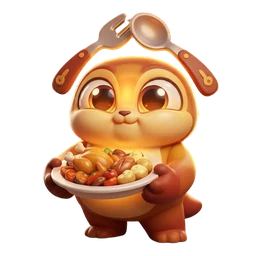
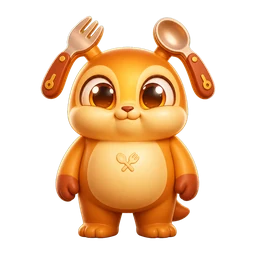
add feastle animation

diff --git a/katchimeras/components/katchadeck/world/creature-animated-art.tsx b/katchimeras/components/katchadeck/world/creature-animated-art.tsx
@@ -8,7 +8,10 @@ import { useEffect, useRef, useState } from 'react';
 import { AppState, type AppStateStatus, type ImageStyle, type StyleProp } from 'react-native';
 import { useReducedMotion } from 'react-native-reanimated';
 
-import { resolveCreatureIdleAnimationSource } from '@/constants/creature-idle-animation-sources';
+import {
+  resolveCreatureIdleAnimationSource,
+  resolveCreatureIdleFallbackSource,
+} from '@/constants/creature-idle-animation-sources';
 import type { HomeVisualKey } from '@/types/home';
 import type { QuestionnaireImageSource } from '@/utils/companion-questionnaire-presentation';
 
@@ -43,8 +46,9 @@ export function CreatureAnimatedArt({
   const [animationFailed, setAnimationFailed] = useState(false);
   const [animationReady, setAnimationReady] = useState(false);
   const animationSource = resolveCreatureIdleAnimationSource(visualKey);
+  const idleFallbackSource = resolveCreatureIdleFallbackSource(visualKey) ?? fallbackSource;
   const shouldAnimate = Boolean(animationSource) && !animationFailed && !reduceMotion && isFocused && appState === 'active';
-  const source = animationSource && !animationFailed && !reduceMotion ? animationSource : fallbackSource;
+  const source = animationSource && !animationFailed && !reduceMotion ? animationSource : idleFallbackSource;
 
   useEffect(() => {
     if (!animationSource) return;
@@ -144,7 +148,7 @@ export function CreatureAnimatedArt({
       onLoadStart={animationSource && source === animationSource ? () => {
         logIdleDiagnostic('info', 'load-start', { source: 'animated', visualKey });
       } : undefined}
-      placeholder={fallbackSource}
+      placeholder={idleFallbackSource}
       placeholderContentFit="contain"
       priority="high"
       ref={imageRef}

diff --git a/katchimeras/constants/creature-idle-animation-sources.ts b/katchimeras/constants/creature-idle-animation-sources.ts
@@ -4,12 +4,25 @@ import type { ImageSourcePropType } from 'react-native';
 import type { HomeVisualKey } from '@/types/home';
 
 const CREATURE_IDLE_ANIMATION_SOURCES: Partial<Record<HomeVisualKey, ImageSourcePropType>> = {
+  'feastle': require('../assets/images/katchimeras/animations/feastle-idle.webp'),
   'mossprout': require('../assets/images/katchimeras/animations/mossprout-idle.webp'),
   'steppling': require('../assets/images/katchimeras/animations/steppling-idle.webp'),
+};
+
+const CREATURE_IDLE_FALLBACK_SOURCES: Partial<Record<HomeVisualKey, ImageSourcePropType>> = {
+  'feastle': require('../assets/images/katchimeras/cutouts/feastle.png'),
+  'mossprout': require('../assets/images/katchimeras/cutouts/mossprout-standing.png'),
+  'steppling': require('../assets/images/katchimeras/cutouts/steppling-standing.png'),
 };
 
 export function resolveCreatureIdleAnimationSource(
   visualKey: HomeVisualKey,
 ): ImageSourcePropType | null {
   return CREATURE_IDLE_ANIMATION_SOURCES[visualKey] ?? null;
+}
+
+export function resolveCreatureIdleFallbackSource(
+  visualKey: HomeVisualKey,
+): ImageSourcePropType | null {
+  return CREATURE_IDLE_FALLBACK_SOURCES[visualKey] ?? null;
 }

diff --git a/katchimeras/scripts/generate-katchimera-idle.py b/katchimeras/scripts/generate-katchimera-idle.py
@@ -371,14 +371,21 @@ def write_manifest(
 
 def write_runtime_registry(manifest_path: Path, registry_path: Path) -> None:
     animations = load_manifest(manifest_path)["animations"]
-    entries: list[tuple[str, str]] = []
+    entries: list[tuple[str, str, str]] = []
     for visual_key, spec in sorted(animations.items()):
         if not VISUAL_KEY_PATTERN.fullmatch(visual_key) or not isinstance(spec, dict):
             raise RuntimeError(f"Invalid visual key in idle animation manifest: {visual_key}")
         asset = spec.get("asset")
         if not isinstance(asset, str) or not asset.startswith("assets/") or not asset.endswith(".webp"):
             raise RuntimeError(f"Invalid runtime asset for {visual_key}: {asset}")
-        entries.append((visual_key, asset))
+        fallback = spec.get("fallback")
+        if (
+            not isinstance(fallback, str)
+            or not fallback.startswith("assets/")
+            or Path(fallback).suffix.lower() not in {".png", ".webp", ".jpg", ".jpeg"}
+        ):
+            raise RuntimeError(f"Invalid runtime fallback for {visual_key}: {fallback}")
+        entries.append((visual_key, asset, fallback))
 
     lines = [
         "// Generated by scripts/generate-katchimera-idle.py. Do not edit by hand.",
@@ -388,7 +395,13 @@ def write_runtime_registry(manifest_path: Path, registry_path: Path) -> None:
         "",
         "const CREATURE_IDLE_ANIMATION_SOURCES: Partial<Record<HomeVisualKey, ImageSourcePropType>> = {",
     ]
-    lines.extend(f"  '{visual_key}': require('../{asset}')," for visual_key, asset in entries)
+    lines.extend(f"  '{visual_key}': require('../{asset}')," for visual_key, asset, _ in entries)
+    lines.extend([
+        "};",
+        "",
+        "const CREATURE_IDLE_FALLBACK_SOURCES: Partial<Record<HomeVisualKey, ImageSourcePropType>> = {",
+    ])
+    lines.extend(f"  '{visual_key}': require('../{fallback}')," for visual_key, _, fallback in entries)
     lines.extend([
         "};",
         "",
@@ -396,6 +409,12 @@ def write_runtime_registry(manifest_path: Path, registry_path: Path) -> None:
         "  visualKey: HomeVisualKey,",
         "): ImageSourcePropType | null {",
         "  return CREATURE_IDLE_ANIMATION_SOURCES[visualKey] ?? null;",
+        "}",
+        "",
+        "export function resolveCreatureIdleFallbackSource(",
+        "  visualKey: HomeVisualKey,",
+        "): ImageSourcePropType | null {",
+        "  return CREATURE_IDLE_FALLBACK_SOURCES[visualKey] ?? null;",
         "}",
         "",
     ])
@@ -488,7 +507,6 @@ def main() -> int:
             parser.error(f"--{name.replace('_', '-')} must be between 0 and 100.")
     if args.budget_mib <= 0:
         parser.error("--budget-mib must be greater than zero.")
-
     visual_key = args.visual_key
     character_name = args.character_name or visual_key.replace("-", " ").title()
     source = resolve_project_path(args.source or Path(f"assets/images/katchimeras/cutouts/{visual_key}.png"))

diff --git a/katchimeras/docs/eas-asset-audit.md b/katchimeras/docs/eas-asset-audit.md
@@ -6,10 +6,10 @@ Generated by `npm run assets:audit:write`. The complete file-level exclusion inv
 
 | Classification | Files | Size |
 | --- | ---: | ---: |
-| All project assets | 3911 | 1018.5 MiB |
-| Required by Metro or native configuration | 2300 | 137.5 MiB |
+| All project assets | 4018 | 1038.7 MiB |
+| Required by Metro or native configuration | 2405 | 156.5 MiB |
 | Native-configuration-only | 12 | 3.3 MiB |
-| Excluded from EAS | 1611 | 881.0 MiB |
+| Excluded from EAS | 1613 | 882.1 MiB |
 
 ## Largest excluded groups
 
